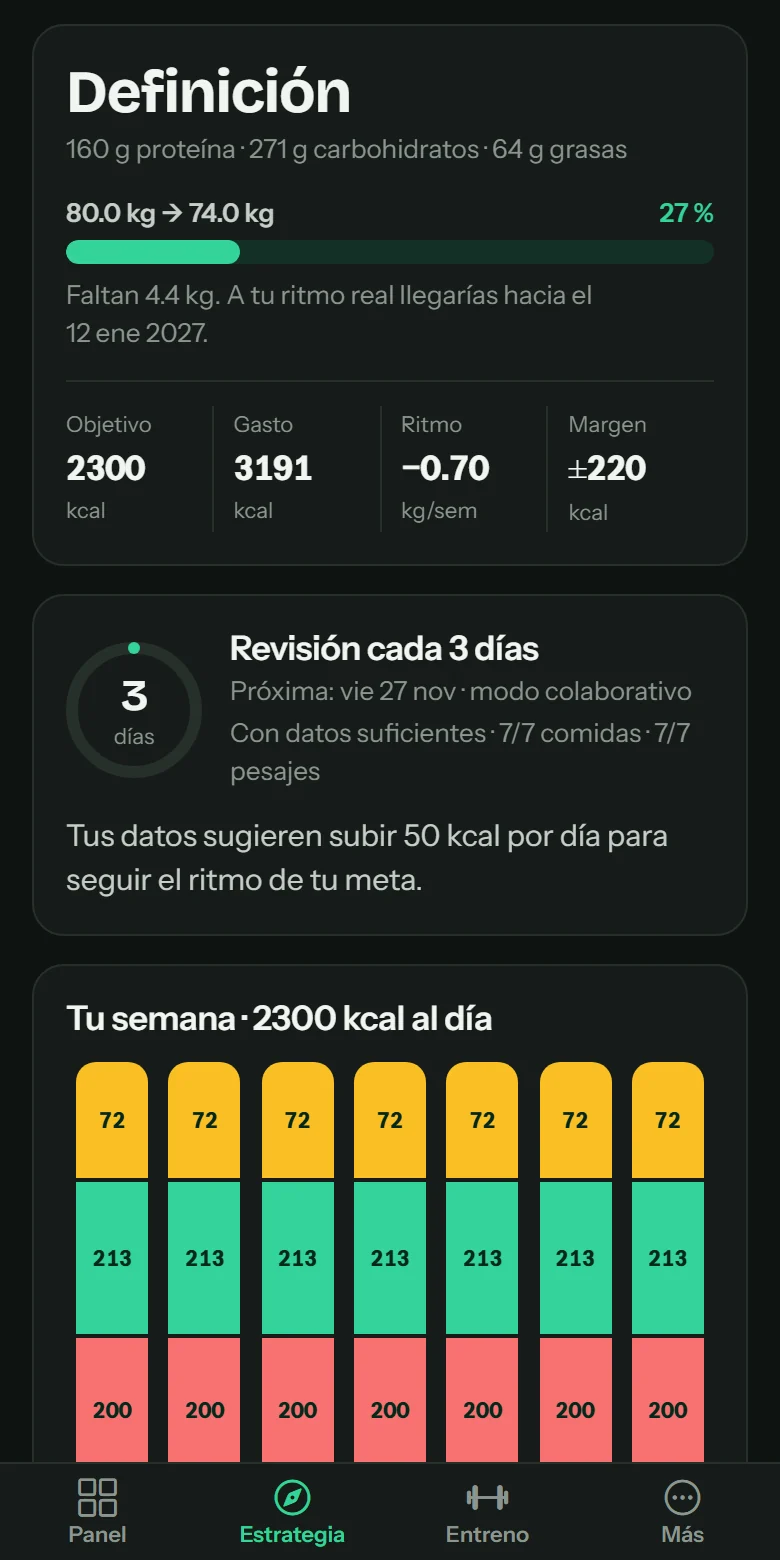
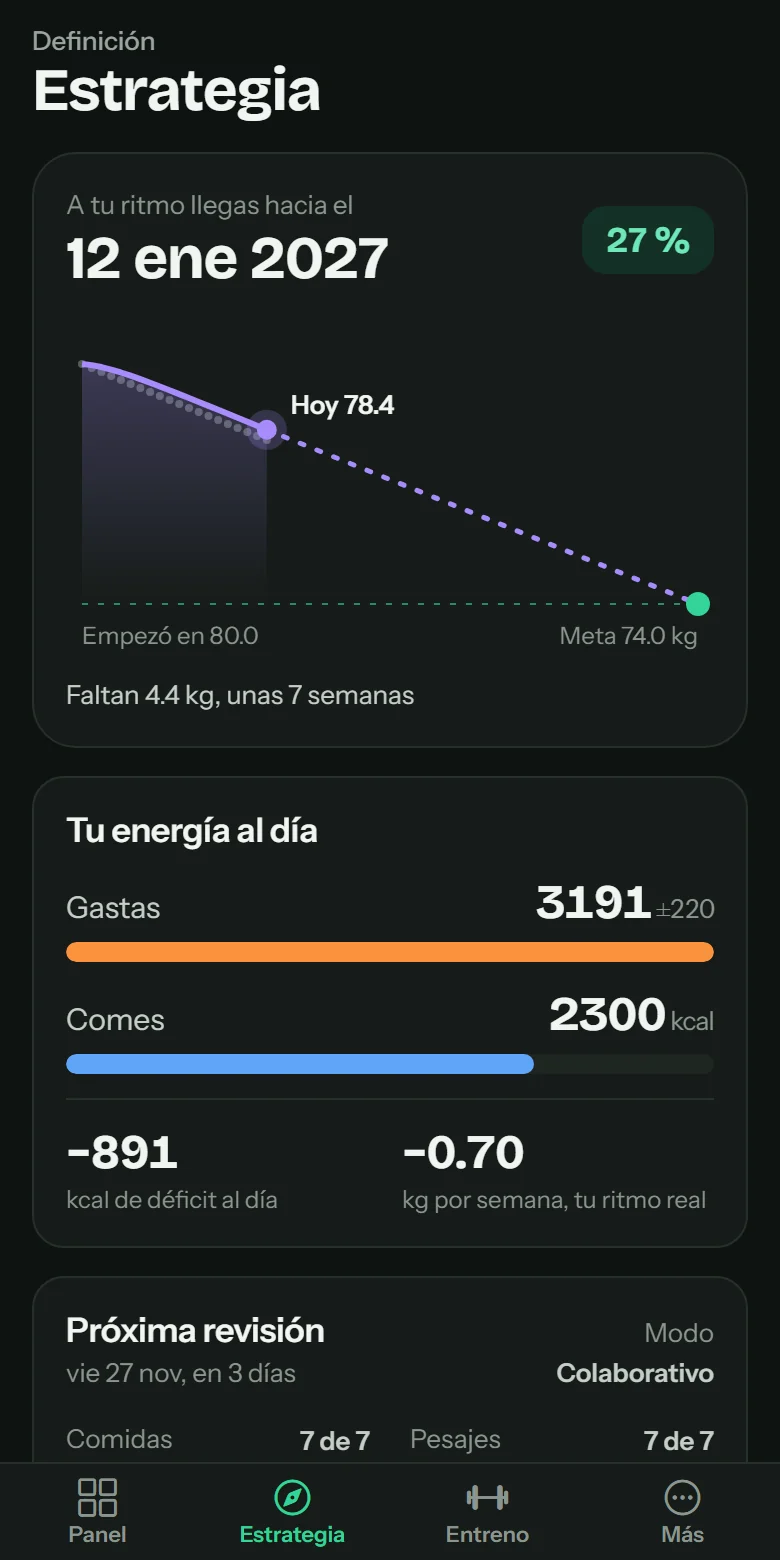
Cuatro temas: Bosque, Claro, Rosa noche y Rosa día; captura de Estrategia al día

diff --git a/src/theming/palettes.ts b/src/theming/palettes.ts
@@ -1,80 +1,87 @@
 /**
  * Temas de color. El tema base es Bosque (el de siempre): cada color fijo del
  * tema y de los gráficos se escribe en su tono de Bosque y aquí se traduce al
- * tono equivalente de Pastel o de Claro. Así un tema nuevo no obliga a tocar
+ * tono equivalente de Claro, Rosa noche o Rosa día. Así un tema nuevo no obliga a tocar
  * cada pantalla. Módulo puro.
  */
-export type ThemeId = "forest" | "pastel" | "light";
+// "pastel" es el nombre guardado de Rosa noche: antes fue un tema morado. Se conserva para que quien lo
+// usaba pase al nuevo y los respaldos anteriores se lean igual.
+export type ThemeId = "forest" | "light" | "pastel" | "rose";
 export const THEME_KEY = "app_theme";
 
 export const THEMES: Array<{ value: ThemeId; label: string; detail: string }> = [
   { value: "forest", label: "Bosque", detail: "Verde sobre oscuro, el de siempre" },
-  { value: "pastel", label: "Pastel", detail: "Lavanda, durazno y menta sobre grafito" },
-  { value: "light", label: "Claro", detail: "Fondo claro y alto contraste" },
+  { value: "light", label: "Claro", detail: "Verde sobre fondo claro" },
+  { value: "pastel", label: "Rosa noche", detail: "Rosa pastel sobre oscuro" },
+  { value: "rose", label: "Rosa día", detail: "Rosa sobre fondo claro" },
 ];
 
-// Bosque → [Pastel, Claro]. Los que no aparecen quedan igual en los tres.
-const MAP: Record<string, [string, string]> = {
+// Bosque → [Rosa noche, Claro, Rosa día]. Los que no aparecen quedan igual en todos.
+const MAP: Record<string, [string, string, string]> = {
   // Fondos y superficies
-  "#0E1311": ["#1C1A22", "#F4F6F4"],
-  "#121815": ["#211E28", "#FFFFFF"],
-  "#161C19": ["#26232E", "#FFFFFF"],
-  "#1E2622": ["#2E2A38", "#EDF1EE"],
-  "#12241D": ["#241F30", "#E8F5EE"],
-  "#2A3530": ["#33303D", "#E3E9E5"],
+  "#0E1311": ["#1D1519", "#F4F6F4", "#FFF5F7"],
+  "#121815": ["#22191E", "#FFFFFF", "#FFFFFF"],
+  "#161C19": ["#271C22", "#FFFFFF", "#FFFFFF"],
+  "#1E2622": ["#31242B", "#EDF1EE", "#FBE8ED"],
+  "#12241D": ["#2E1B24", "#E8F5EE", "#FDE6ED"],
+  "#2A3530": ["#3A2A32", "#E3E9E5", "#F5DCE3"],
   // Bordes
-  "#27302B": ["#3A3545", "#DCE3DF"],
-  "#2C3631": ["#3F3A4B", "#D3DBD6"],
-  "#4A564F": ["#5C5468", "#A9B5AE"],
-  "#2C4A3E": ["#3A3350", "#CFE7DC"],
-  "#1F4A39": ["#3A3350", "#CFE7DC"],
+  "#27302B": ["#443139", "#DCE3DF", "#F3D7DF"],
+  "#2C3631": ["#4A353F", "#D3DBD6", "#EDCBD5"],
+  "#4A564F": ["#6B515C", "#A9B5AE", "#C9A2AF"],
+  "#2C4A3E": ["#4A2A38", "#CFE7DC", "#F6CCD9"],
+  "#1F4A39": ["#4A2A38", "#CFE7DC", "#F6CCD9"],
   // Texto
-  "#F1F5F2": ["#F4F1F8", "#14201A"],
-  "#DDE7E1": ["#E6E0EE", "#22302A"],
-  "#C5CEC8": ["#D6D0DE", "#33413A"],
-  "#9AA59E": ["#ADA6B9", "#55625B"],
-  "#8B968F": ["#A39CB0", "#5C6861"],
-  "#86C8AA": ["#CBB9E8", "#2A6F53"],
+  "#F1F5F2": ["#FBF1F4", "#14201A", "#2B1720"],
+  "#DDE7E1": ["#F0DFE5", "#22302A", "#3A2430"],
+  "#C5CEC8": ["#E0CDD4", "#33413A", "#4A333F"],
+  "#9AA59E": ["#BFA7B1", "#55625B", "#75586A"],
+  "#8B968F": ["#B59DA7", "#5C6861", "#785A68"],
+  "#86C8AA": ["#F0B5CA", "#2A6F53", "#A32A58"],
   // Acento
-  "#34D399": ["#B8A4F4", "#147455"],
-  "#6EE7B7": ["#D3C6FA", "#11674B"],
-  "#133126": ["#2E2840", "#DDF1E8"],
-  "#1C3A2E": ["#362E4C", "#D4EEE3"],
-  "#1C3A2D": ["#362E4C", "#D4EEE3"],
-  "#1F3A30": ["#2E2840", "#E1F2EA"],
-  "#22704F": ["#8E7BD0", "#1F8F62"],
-  "#06281C": ["#1C1A22", "#FFFFFF"],
+  "#34D399": ["#F48DB8", "#147455", "#BE3166"],
+  "#6EE7B7": ["#FBC0D8", "#11674B", "#A32A58"],
+  "#133126": ["#3D2430", "#DDF1E8", "#FCE0E9"],
+  "#1C3A2E": ["#482A38", "#D4EEE3", "#FAD3E0"],
+  "#1C3A2D": ["#482A38", "#D4EEE3", "#FAD3E0"],
+  "#1F3A30": ["#3D2430", "#E1F2EA", "#FDE6ED"],
+  "#22704F": ["#B85E82", "#1F8F62", "#D15482"],
+  "#06281C": ["#1D1519", "#FFFFFF", "#FFFFFF"],
   // Datos: cada macro con su color armonizado
-  "#34D39A": ["#9FE3C8", "#1F9A6F"],
-  "#60A5FA": ["#A9C7F5", "#1F5AE0"],
-  "#F87171": ["#F7A8A8", "#C81E1E"],
-  "#FBBF24": ["#F5D98B", "#8F5E06"],
-  "#FB923C": ["#F7B89B", "#B03A0A"],
+  "#34D39A": ["#86DDB5", "#1F9A6F", "#1B8A66"],
+  "#60A5FA": ["#86BBFA", "#1F5AE0", "#1F5AE0"],
+  "#F87171": ["#F7986E", "#C81E1E", "#B4400A"],
+  "#FBBF24": ["#F2E08C", "#8F5E06", "#7A6400"],
+  "#FB923C": ["#EFC05A", "#B03A0A", "#8A5200"],
   // Agua y sueño en los objetivos del día
-  "#22D3EE": ["#86E3DA", "#0E7490"],
-  "#F472B6": ["#F4B3D4", "#BE185D"],
-  "#A78BFA": ["#C9B8F7", "#6D28D9"],
+  "#22D3EE": ["#7FE0E0", "#0E7490", "#0E7490"],
+  "#F472B6": ["#E79BE6", "#BE185D", "#A21CAF"],
+  "#A78BFA": ["#C0A4FA", "#6D28D9", "#6D28D9"],
   // Fondos suaves de avisos
-  "#16243A": ["#262C3D", "#DBE7FB"],
-  "#3A1B1B": ["#3A2630", "#FBE1E1"],
-  "#101C2C": ["#232637", "#E8F0FC"],
-  "#1E3A5F": ["#3A4060", "#BFD3F2"],
-  "#93B4D8": ["#B8C8EC", "#1E40AF"],
-  "#BFDBFE": ["#D6E0FA", "#1E3A8A"],
-  "#3A3113": ["#3A3326", "#FEF6DC"],
-  "#C9B56F": ["#E2CF9A", "#8A6D12"],
-  "#FDE9A8": ["#F5E6BC", "#6B5410"],
-  "#1F1B0C": ["#1F1B0C", "#1F1B0C"],
+  "#16243A": ["#262C3D", "#DBE7FB", "#DBE7FB"],
+  "#3A1B1B": ["#3A2630", "#FBE1E1", "#FBE1E1"],
+  "#101C2C": ["#232637", "#E8F0FC", "#E8F0FC"],
+  "#1E3A5F": ["#3A4060", "#BFD3F2", "#BFD3F2"],
+  "#93B4D8": ["#B8C8EC", "#1E40AF", "#1E40AF"],
+  "#BFDBFE": ["#D6E0FA", "#1E3A8A", "#1E3A8A"],
+  "#3A3113": ["#3A3326", "#FEF6DC", "#FEF6DC"],
+  "#C9B56F": ["#E2CF9A", "#8A6D12", "#8A6D12"],
+  "#FDE9A8": ["#F5E6BC", "#6B5410", "#6B5410"],
+  "#1F1B0C": ["#1F1B0C", "#1F1B0C", "#1F1B0C"],
   // Mapa muscular
-  "#1F5A44": ["#4B4170", "#A7D9C3"],
-  "#22936A": ["#8E7BD0", "#3FAE82"],
+  "#1F5A44": ["#5E3348", "#A7D9C3", "#F2B6CB"],
+  "#22936A": ["#B85E82", "#3FAE82", "#D9638F"],
 };
+
+const COLUMN = { pastel: 0, light: 1, rose: 2 } as const;
+/** Los temas de fondo claro (la barra de estado del teléfono va con íconos oscuros). */
+export const isLightTheme = (theme: ThemeId) => theme === "light" || theme === "rose";
 
 /** El tono de un color de Bosque en el tema pedido. */
 export function themed(hex: string, theme: ThemeId): string {
   if (theme === "forest") return hex;
-  const pair = MAP[hex.toUpperCase()];
-  return pair ? pair[theme === "pastel" ? 0 : 1] : hex;
+  const tones = MAP[hex.toUpperCase()];
+  return tones ? tones[COLUMN[theme]] : hex;
 }
 
 /** Recorre un objeto de estilos y traduce cada color. */
@@ -92,8 +99,7 @@ export function remapColors<T>(value: T, theme: ThemeId): T {
   return walk(value) as T;
 }
 
-export const isThemeId = (value: unknown): value is ThemeId =>
-  value === "forest" || value === "pastel" || value === "light";
+export const isThemeId = (value: unknown): value is ThemeId => THEMES.some((theme) => theme.value === value);
 
 /** El tema que se sugiere en la evaluación según el perfil; siempre se puede cambiar. */
 export const suggestedTheme = (sex: "male" | "female"): ThemeId => (sex === "female" ? "pastel" : "forest");

diff --git a/src/theming/ThemePicker.tsx b/src/theming/ThemePicker.tsx
@@ -5,12 +5,12 @@ import { THEMES, themed, type ThemeId } from "@/src/theming/palettes";
 import { AppTheme } from "@/src/theme";
 
 /**
- * Elegir el tema: tres miniaturas con los colores de cada uno (fondo, anillo
+ * Elegir el tema: cuatro miniaturas con los colores de cada uno (fondo, anillo
  * de calorías, barras de macros y botón), una al lado de otra.
  */
 export function ThemePicker({ value, onChange }: { value: ThemeId; onChange: (theme: ThemeId) => void }) {
   return (
-    <View accessibilityRole="radiogroup" style={{ flexDirection: "row", gap: 10 }}>
+    <View accessibilityRole="radiogroup" style={{ flexDirection: "row", flexWrap: "wrap", gap: 12 }}>
       {THEMES.map((theme) => {
         const active = theme.value === value;
         const c = (hex: string) => themed(hex, theme.value);
@@ -21,12 +21,12 @@ export function ThemePicker({ value, onChange }: { value: ThemeId; onChange: (th
             accessibilityState={{ selected: active }}
             accessibilityLabel={`Tema ${theme.label}`}
             onPress={() => onChange(theme.value)}
-            style={{ flex: 1, alignItems: "center", gap: 6 }}
+            style={{ flexBasis: "46%", flexGrow: 1, alignItems: "center", gap: 6 }}
           >
             <View
               style={{
                 width: "100%",
-                height: 150,
+                height: 132,
                 borderRadius: 14,
                 borderWidth: 2,
                 borderColor: active ? AppTheme.colors.accent : c("#27302B"),

diff --git a/src/theming/contrast.test.ts b/src/theming/contrast.test.ts
@@ -1,6 +1,6 @@
 import { describe, expect, it } from "vitest";
 
-import { themed, type ThemeId } from "./palettes";
+import { isThemeId, themed, THEMES as THEMES_INFO, type ThemeId } from "./palettes";
 
 // Contraste WCAG: el texto se lee en los tres temas (4.5:1 para texto normal).
 const luminance = (hex: string) => {
@@ -31,7 +31,15 @@ const TEXT = {
   water: "#22D3EE",
   sleep: "#F472B6",
 };
-const THEMES: ThemeId[] = ["forest", "pastel", "light"];
+const THEMES: ThemeId[] = ["forest", "light", "pastel", "rose"];
+
+describe("temas guardados", () => {
+  it("el morado de antes pasa a Rosa noche y lo desconocido se descarta", () => {
+    expect(isThemeId("pastel")).toBe(true);
+    expect(THEMES_INFO.find((theme) => theme.value === "pastel")?.label).toBe("Rosa noche");
+    expect(isThemeId("otro")).toBe(false);
+  });
+});
 
 describe("contraste de los temas", () => {
   for (const theme of THEMES)

diff --git a/app/_layout.tsx b/app/_layout.tsx
@@ -17,6 +17,7 @@ import { VIEWER } from "@/src/lib/mode";
 import { VIEWER_WIDE } from "@/src/lib/viewerLayout";
 import { AppTheme, THEME } from "@/src/theme";
 import { FONTS } from "@/src/theming/fonts";
+import { isLightTheme } from "@/src/theming/palettes";
 import { FONT_FILES } from "@/src/theming/fontFiles";
 
 enableWebRTC();
@@ -91,7 +92,7 @@ export default function RootLayout() {
         backgroundColor: PHONE_FRAME ? AppTheme.colors.surface2 : AppTheme.colors.background,
       }}
     >
-      <StatusBar style={THEME === "light" ? "dark" : "light"} />
+      <StatusBar style={isLightTheme(THEME) ? "dark" : "light"} />
       {/* La navegación se monta debajo de la pantalla de carga cuando todo está listo. */}
       {appReady && install ? <InstallScreen onSkip={() => setInstall(false)} /> : null}
       {appReady && !install ? (

diff --git a/src/theme.ts b/src/theme.ts
@@ -4,7 +4,7 @@ import { currentTheme } from "@/src/theming/current";
 import { VIEWER_WIDE } from "@/src/lib/viewerLayout";
 import { remapColors, themed, type ThemeId } from "@/src/theming/palettes";
 
-/** El tema de color elegido (Bosque, Pastel o Claro). Se lee al arrancar y cambia con `setTheme`. */
+/** El tema de color elegido (Bosque, Claro, Rosa noche o Rosa día). Se lee al arrancar y cambia con `setTheme`. */
 export let THEME = currentTheme();
 /** Un color escrito en su tono de Bosque, en el tema actual (para colores fuera de este archivo). */
 export const tint = (hex: string) => themed(hex, THEME);

diff --git a/src/features/more/MoreSections.tsx b/src/features/more/MoreSections.tsx
@@ -211,7 +211,7 @@ export function MoreDisclosure({
   );
 }
 
-/** Los temas como tres muestras de color: se toca una y cambia. */
+/** Los temas como muestras de color: se toca una y cambia. */
 export function ThemeDots({ value, onChange }: { value: ThemeId; onChange: (theme: ThemeId) => void }) {
   return (
     <View accessibilityRole="radiogroup" style={{ flexDirection: "row", marginRight: -8 }}>

diff --git a/src/features/backup/ViewerChrome.tsx b/src/features/backup/ViewerChrome.tsx
@@ -27,7 +27,7 @@ export function Brand({ size = 28 }: { size?: number }) {
   );
 }
 
-/** Los tres temas como muestras de color; el elegido lleva un aro. */
+/** Los temas como muestras de color; el elegido lleva un aro. */
 export function ThemeSwitch() {
   const choose = (theme: ThemeId) => {
     if (theme === THEME) return;

diff --git a/CHANGELOG.md b/CHANGELOG.md
@@ -17,6 +17,7 @@ Nada todavía.
 - Colores revisados en los tres temas: agua y sueño tienen tono propio en los objetivos, y la prueba de contraste ahora también los mide.
 - Las fechas dentro de los textos se leen ("12 ene 2027") y no se parten en dos líneas.
 - **Estrategia rediseñada:** la trayectoria de tu peso hasta la meta con su fecha, lo que gastas contra lo que comes, la revisión con el cambio sugerido aparte y la semana con un día elegible. El plan y lo demás van en filas con ícono. No probada en un teléfono.
+- **Cuatro temas:** Bosque y Claro (verde), Rosa noche y Rosa día. Rosa noche reemplaza a Pastel, donde los colores de los datos se confundían; quien usaba Pastel pasa a Rosa noche al actualizar.
 - **Respaldo explicado:** la pantalla Respaldo dice cómo actualizar sin perder datos, guardar un respaldo, recuperarlo y qué incluye.
 - **Código de versión de Android** calculado de la versión (4200), con una prueba que falla si no coincide.
 - **Más, rediseñada:** tu plan arriba, cuatro mosaicos con el dato de hoy (hábitos, bienestar, racha y medidas), el resto por grupos con ícono y los ajustes en la misma fila. Respaldo, Health Connect y exportar pasan a su propia pantalla. No probado en un teléfono.
